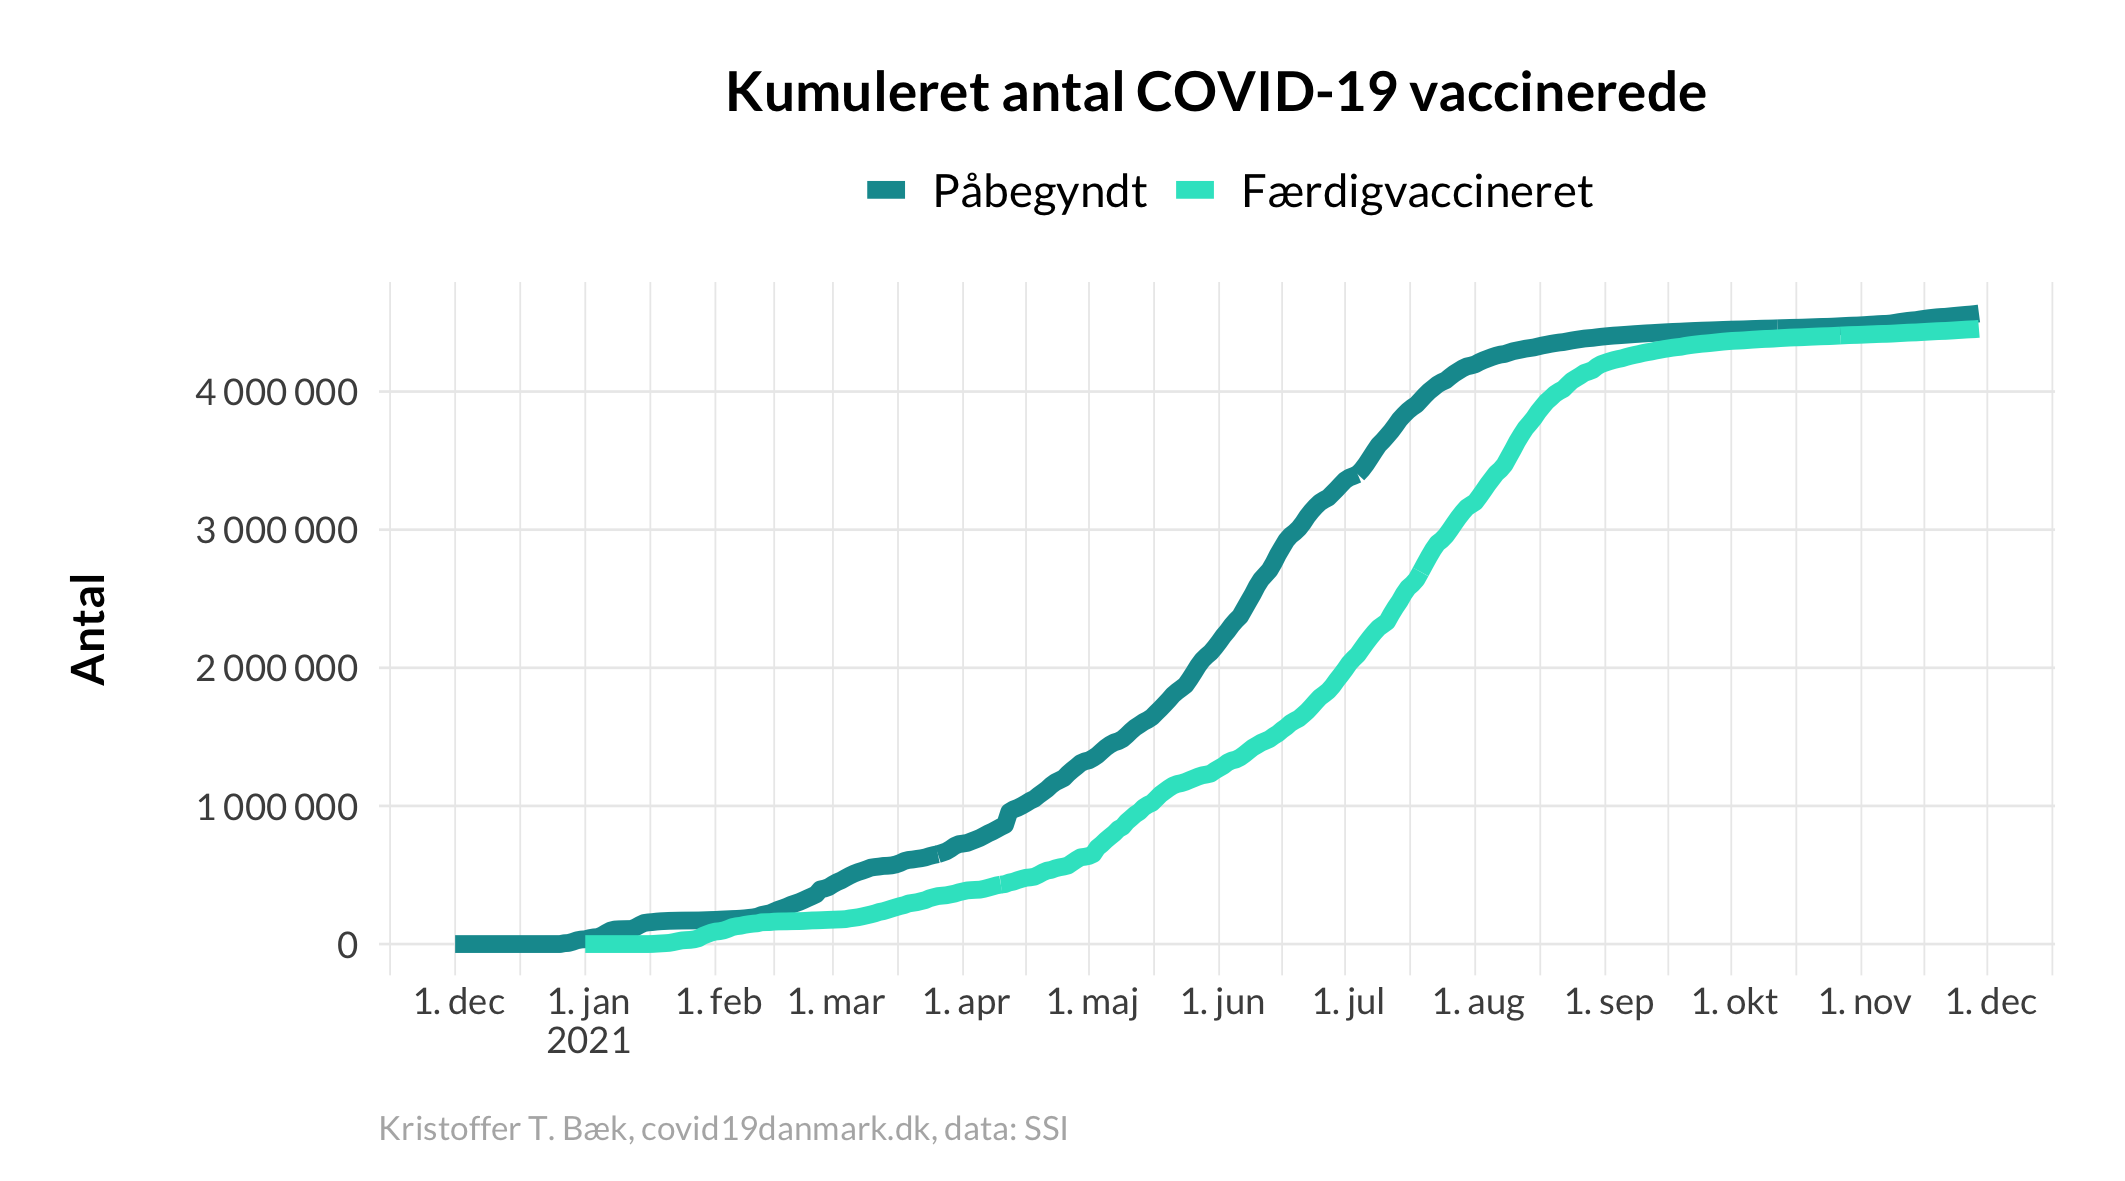
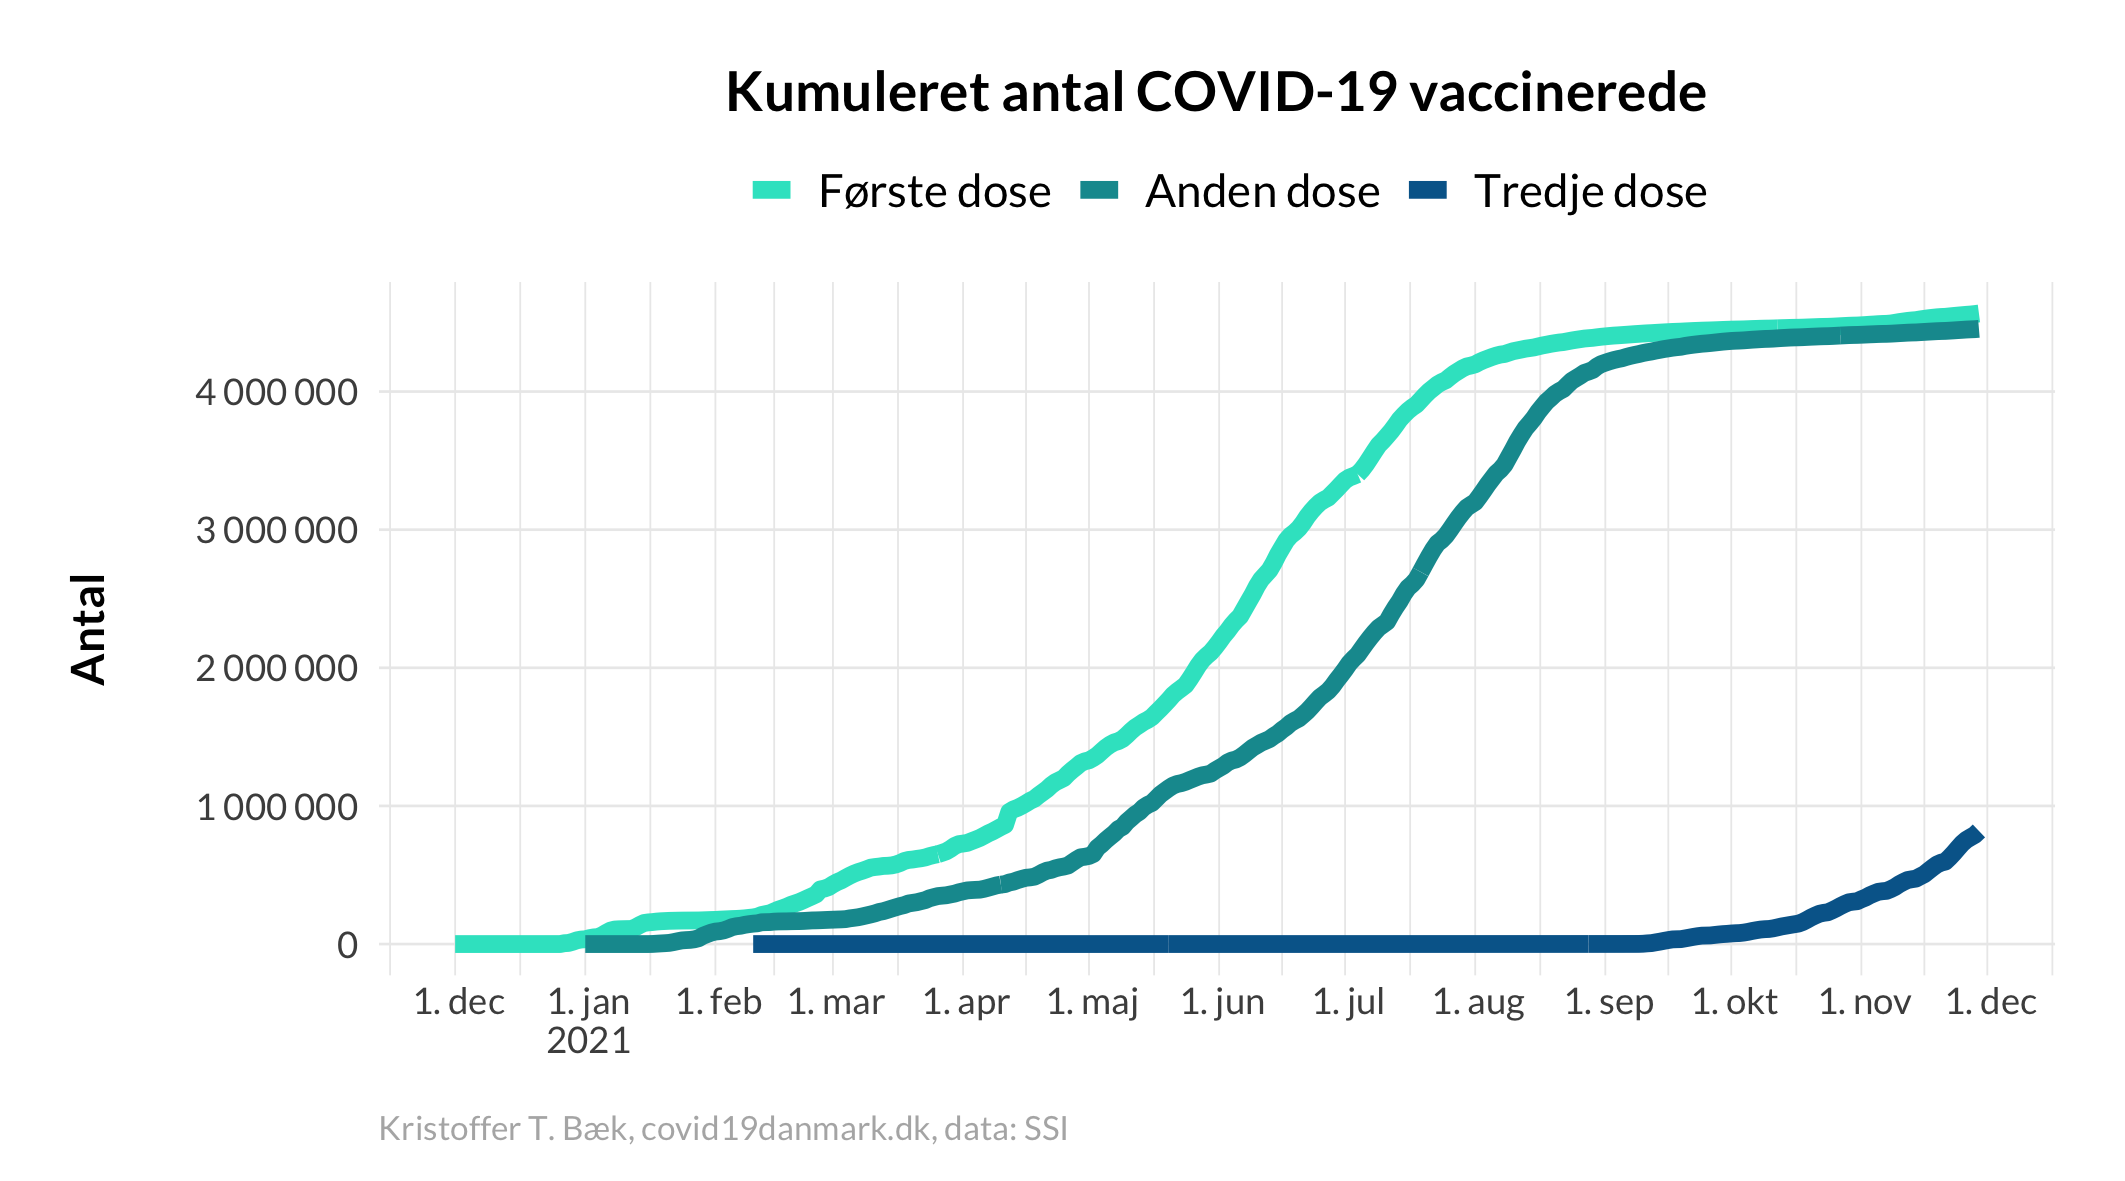
Update plots

diff --git a/index.md b/index.md
@@ -5,7 +5,7 @@ title: Covid-19 smitteudvikling i Danmark
 ---
 # Grafer over Covid-19 smitteudvikling i Danmark
 
-Senest opdateret 30. november 2021 efter kl 14.
+Senest opdateret  3. december 2021 efter kl 14.<br>*Vaccinationsplots dog opdateret 30. november 2021*
 Opdateres ca. én gang om ugen.
 
 <div class="likely">
